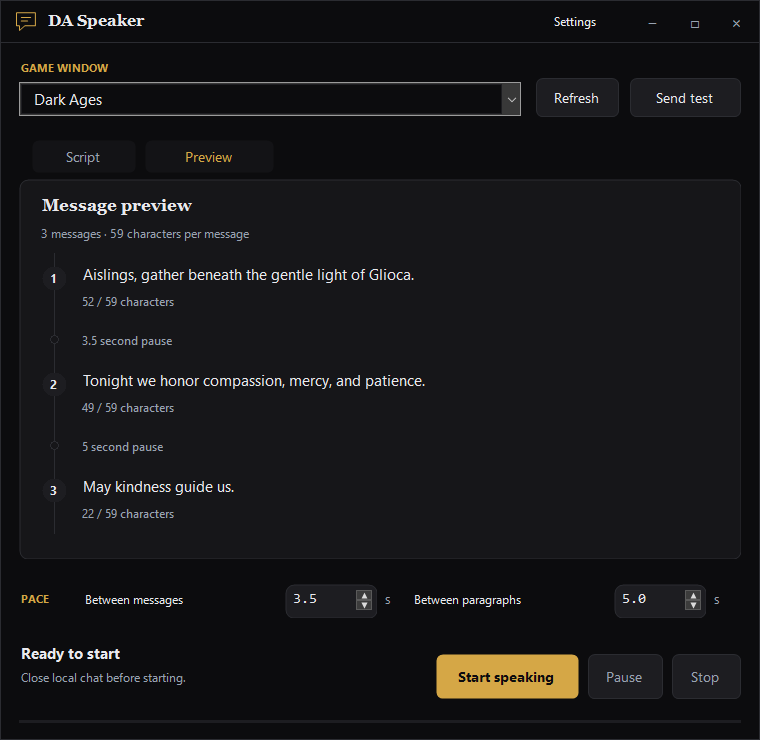
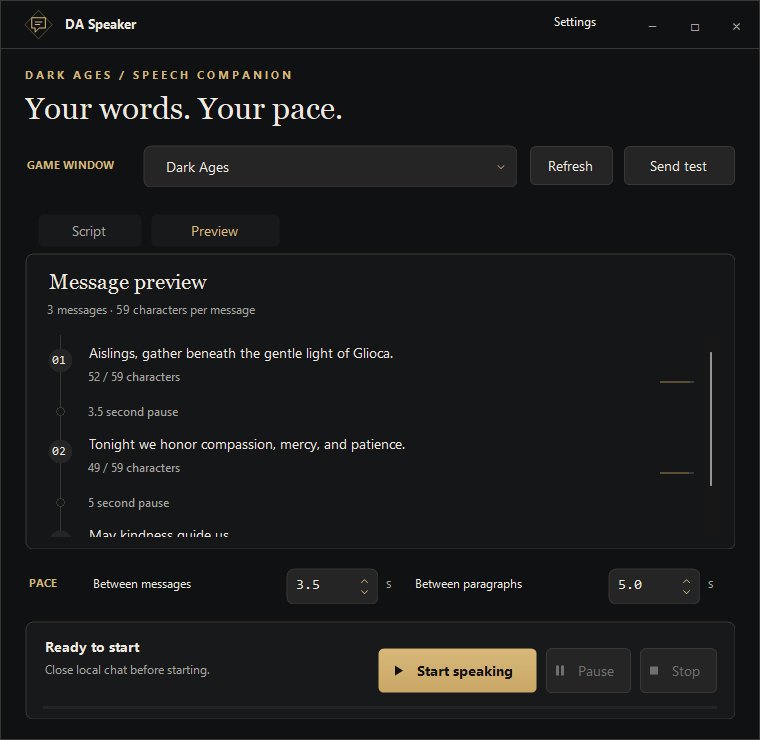
docs(ui): refresh README screenshots for ceremonial redesign

diff --git a/README.md b/README.md
@@ -14,7 +14,9 @@ A dark desktop companion for speaking in Dark Ages local chat.
 
 </div>
 
-![DA Speaker showcase: dark script editor, exact chat-message preview, and gold playback controls](docs/images/showcase.png)
+![DA Speaker's ceremonial dark-and-gold interface: engraved accents, script editor, message timeline, and playback controls](docs/images/showcase.png)
+
+[View full-size workspace screenshot](docs/images/screenshots/main.png)
 
 ## A little room for your words
 
@@ -29,7 +31,9 @@ sequence, and lets you decide when to speak, pause, or start again.
 - **Keep your place.** Your draft and preferences are remembered between sessions.
 - **Keep it compact.** Smaller windows switch between Script and Preview; advanced options live in Settings.
 
-![DA Speaker in detail: compact preview and Settings with subtle controls and Aosda design credit](docs/images/controls.png)
+![DA Speaker's redesigned compact preview and Settings, with matching gold controls and refined typography](docs/images/controls.png)
+
+Full-size screenshots: [Compact preview](docs/images/screenshots/compact.png) · [Settings](docs/images/screenshots/settings.png)
 
 ## Quick start
 
